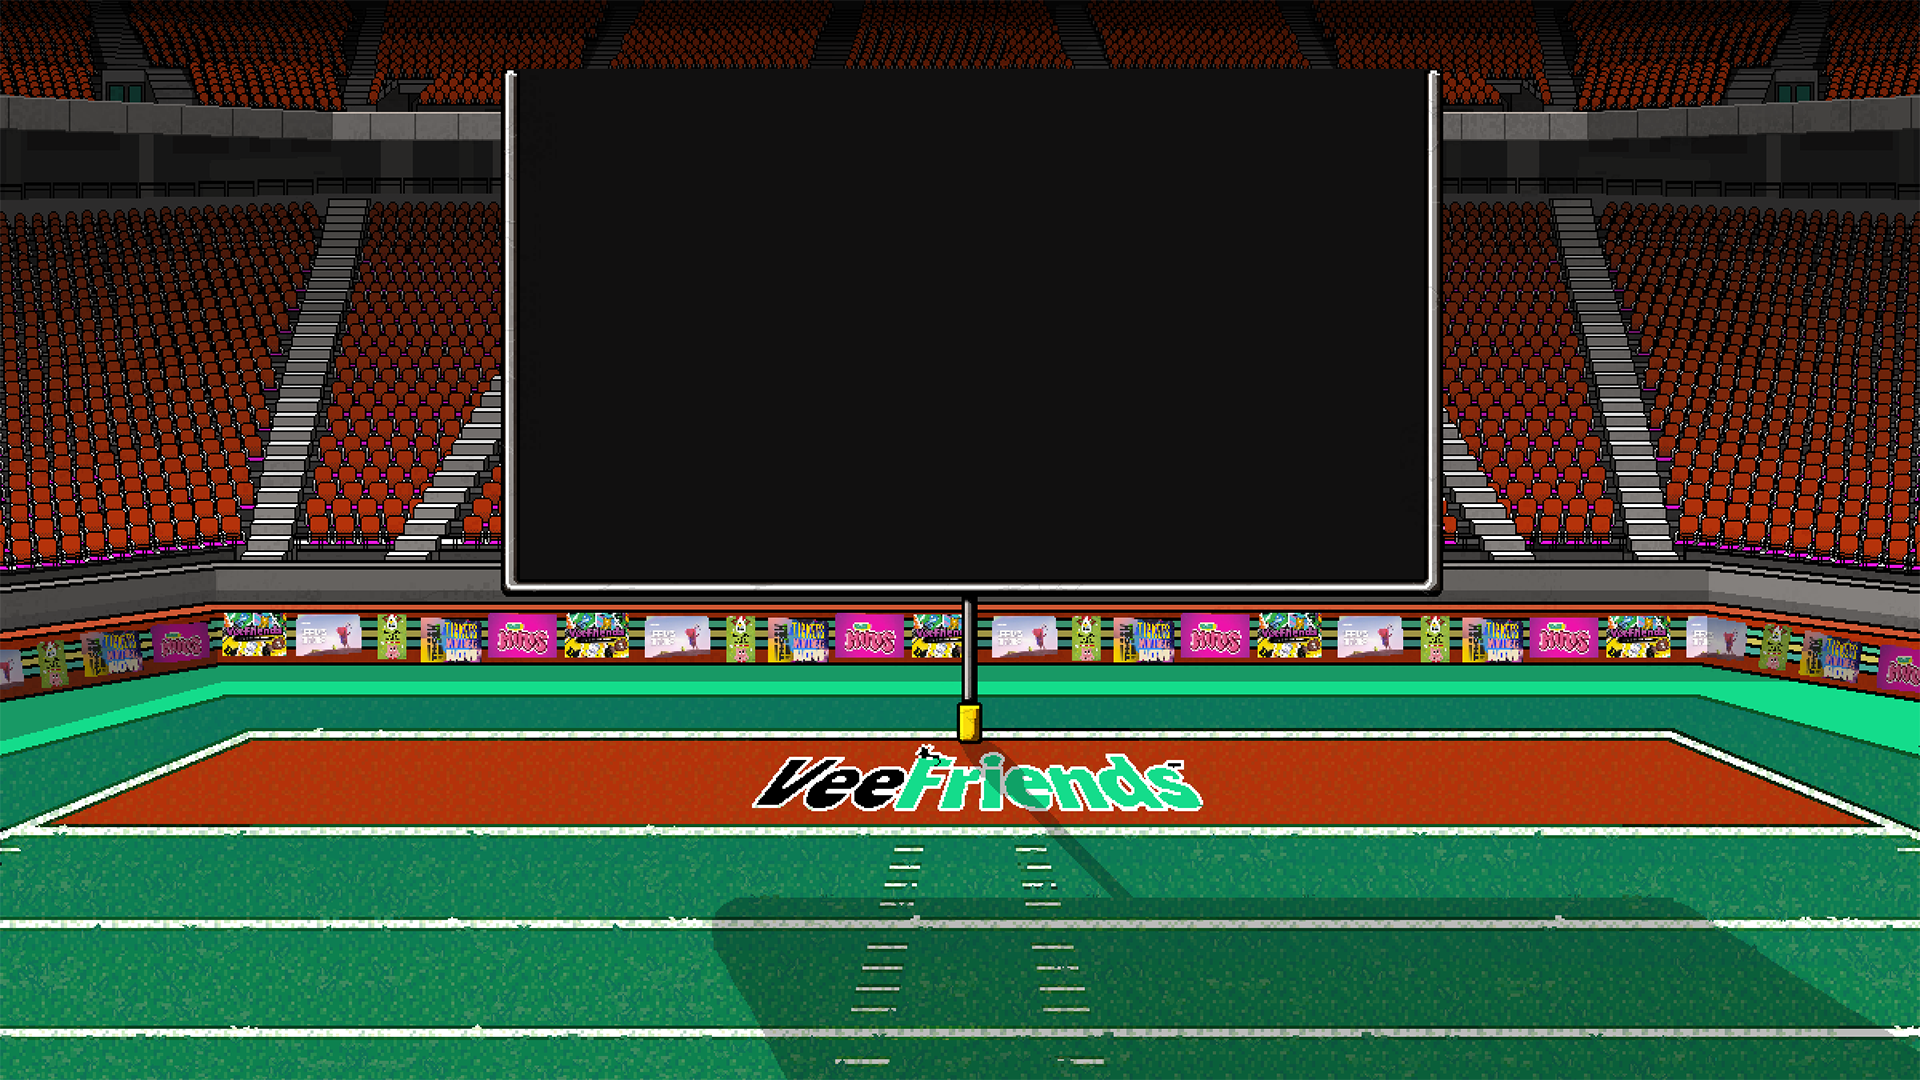
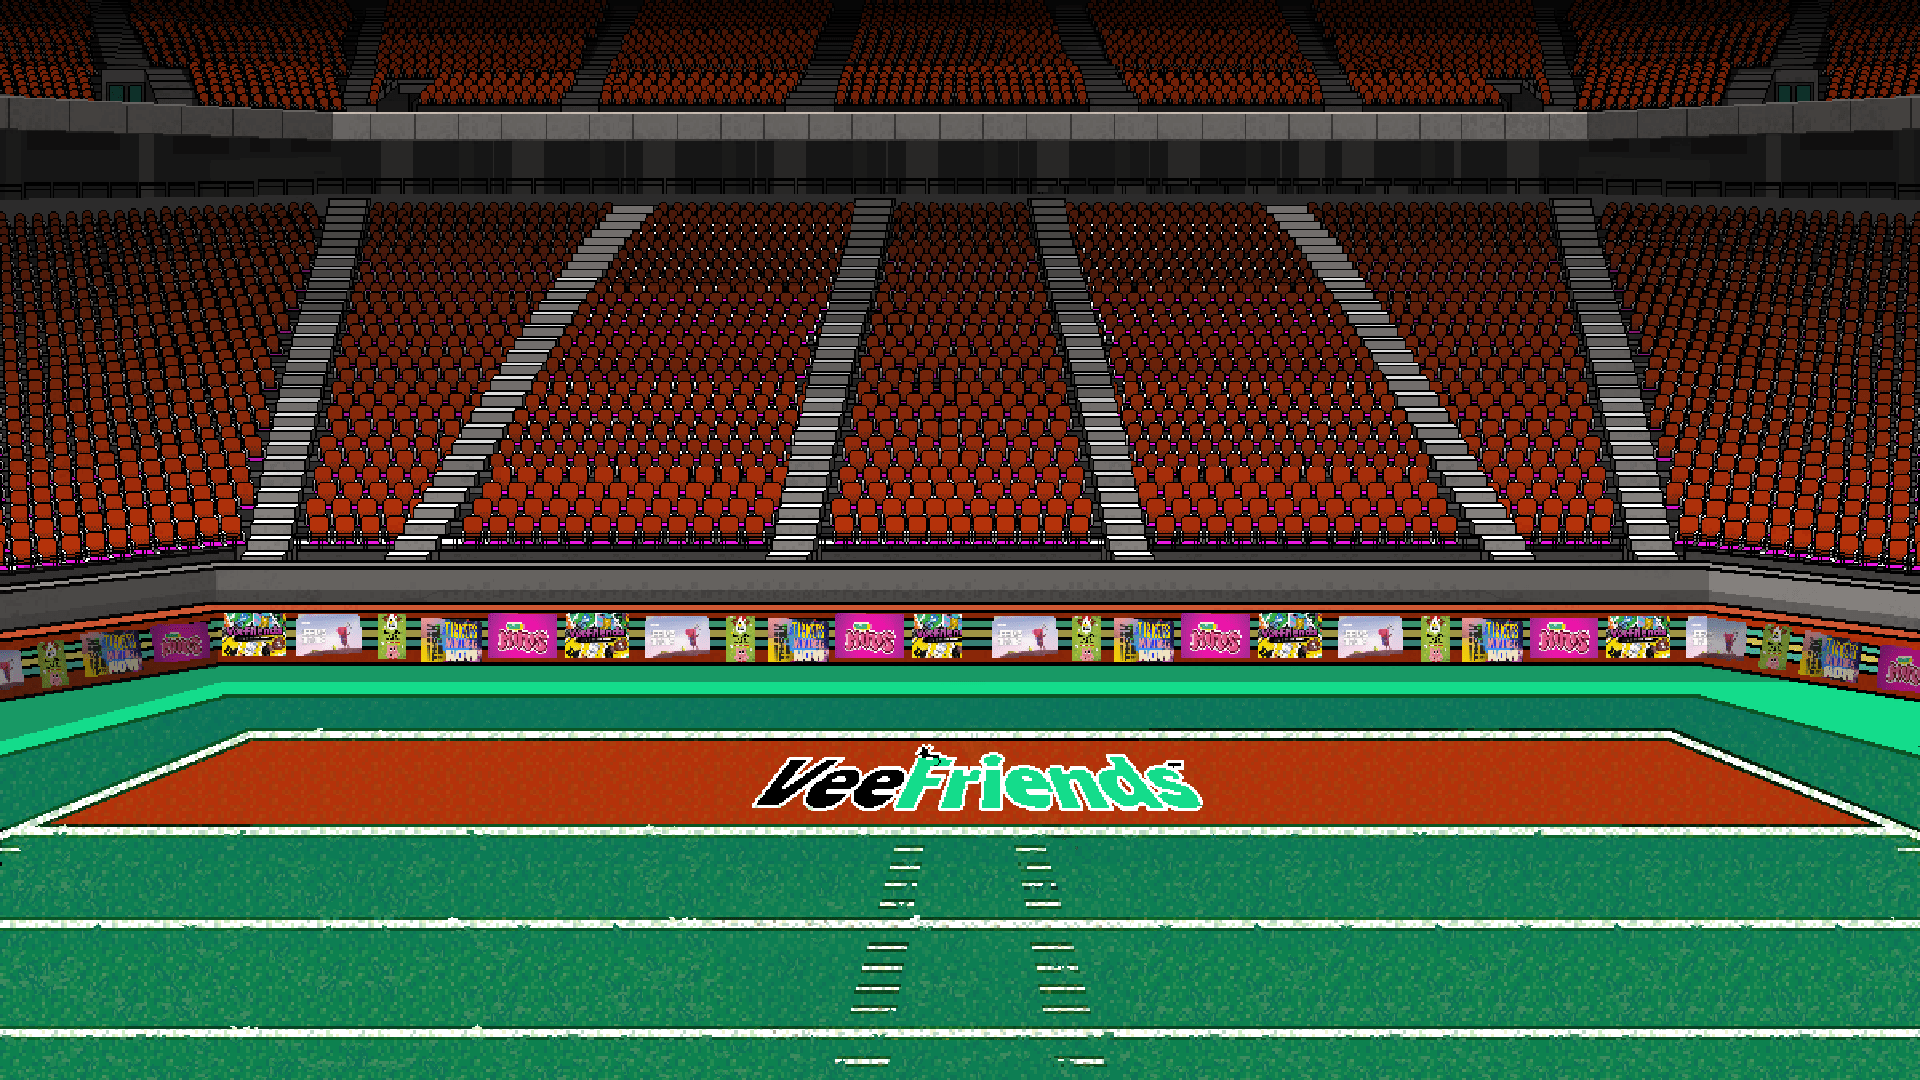
finalizes UI for dialog

diff --git a/src/Muisc/Music.ts b/src/Muisc/Music.ts
@@ -1,7 +1,7 @@
 import WaveSurfer from 'wavesurfer.js'
 import type { Song, EventCallback } from '../Types';
-import { EventEmitter } from '../Utils';
-import { MusicPlayer } from './MusicPlayer';
+import { EventEmitter, renderFragment } from '../Utils';
+import { MusicPlayer } from '../UI/Components/MusicPlayer';
 
 /**
  * Manages music playback and playlist functionality.
@@ -10,20 +10,17 @@ export class Music {
     private readonly playlist: Song[];
     private readonly audioPlayer: WaveSurfer;
     private readonly eventEmitter: EventEmitter;
-    private readonly parentElement: HTMLElement;
+    private readonly element: HTMLElement;
     private currentSongIndex: number = 0;
     private isFirstRender: boolean;
 
     /**
      * Creates a new Music instance.
-     * @param containerSelector - The CSS selector for the audio player container.
      */
-    constructor(containerSelector: string) {
-        const el = MusicPlayer();
-        console.log(el);
-        this.parentElement = document.querySelector(containerSelector)!.parentElement as HTMLElement;
+    constructor() {
+        this.element = renderFragment(MusicPlayer());
         this.playlist = this.initializePlaylist();
-        this.audioPlayer = this.createAudioPlayer(containerSelector);
+        this.audioPlayer = this.createAudioPlayer();
         this.eventEmitter = new EventEmitter();
         this.setupEventListeners();
         this.setVolume(0.9);
@@ -52,12 +49,12 @@ export class Music {
 
     /**
      * Creates and configures the WaveSurfer audio player.
-     * @param containerSelector - The CSS selector for the audio player container.
+     * @param container - The CSS selector for the audio player container.
      * @returns A configured WaveSurfer instance.
      */
-    private createAudioPlayer(containerSelector: string): WaveSurfer {
+    private createAudioPlayer(): WaveSurfer {
         return WaveSurfer.create({
-            container: containerSelector,
+            container: this.element,
             height: 18,
             width: 160,
             normalize: false,
@@ -90,12 +87,12 @@ export class Music {
         this.audioPlayer.on('finish', () => this.next());
 
         this.audioPlayer.on('play', () => {
-            this.parentElement.classList.add('playing');
+            this.element.classList.add('playing');
             this.eventEmitter.emit('play');
         });
 
         this.audioPlayer.on('pause', () => {
-            this.parentElement.classList.remove('playing');
+            this.element.classList.remove('playing');
             this.eventEmitter.emit('pause');
         });
 

diff --git a/src/UI/Components/MusicPlayer.tsx b/src/UI/Components/MusicPlayer.tsx
@@ -1,0 +1,71 @@
+import * as stylex from '@stylexjs/stylex';
+
+const styles = stylex.create({
+    music: {
+        height: "36px",
+        width: "49px",
+        margin: "20px",
+        background: "#00c08b",
+        padding: "0 5px",
+        border: "3px solid black",
+        boxSizing: "content-box",
+        boxShadow: "-4px 4px 0 0 #007f6e",
+        display: "flex",
+        alignItems: "center",
+        justifyContent: "space-between",
+        gap: "3px",
+        transition: "width 500ms ease",
+        overflow: "hidden"
+    },
+    player: {
+        opacity: 0,
+        pointerEvents: "none",
+        transition: "opacity 500ms ease",
+        width: "1px"
+    },
+    playing: {
+        width: "220px",
+    },
+    btn: {
+        background: "#009688",
+        border: "2px solid #267f6e",
+        padding: "3px",
+        cursor: "pointer",
+        borderRadius: "2px",
+        width: "23px",
+        ":hover": {
+            opacity: ".8",
+            filter: "hue-rotate(185deg)"
+        },
+        ":active": {
+            transform: "translateY(1px)",
+            opacity: "1"
+        }
+    },
+    img: {
+        display: "block",
+        width: "100%",
+        maxWidth: "23px"
+    },
+    hide: {
+        display: "none"
+    },
+    show: {
+        display: "block"
+    }
+});
+
+export const MusicPlayer = () => {
+    return (
+        <div id="music" {...stylex.props(styles.music)}>
+            <button id="playPause" {...stylex.props(styles.btn)}>
+                <img src="/utils/play.png" alt="Play" {...stylex.props(styles.img, styles.hide)} />
+                <img src="/utils/pause.png" alt="Pause" {...stylex.props(styles.img, styles.hide)} />
+            </button>
+            <div {...stylex.props(styles.player)}></div>
+            <button id="next" {...stylex.props(styles.btn)}>
+                <img src="/utils/next.png" alt="Next" {...stylex.props(styles.img)} />
+            </button>
+        </div>
+    );
+}

diff --git a/src/UI/styles.css b/src/UI/styles.css
@@ -163,7 +163,7 @@ body {
 }
 
 #mask {
-    background-image: url(/backgrounds/stadium-mask.png);
+    background-image: none;
     z-index: 1;
     pointer-events: none;
 }
@@ -197,30 +197,6 @@ body {
     height: 50px;
 }
 
-.music {
-    height: 36px;
-    width: 49px;
-    margin: 20px;
-    background: #00c08b;
-    padding: 0 5px;
-    border: 3px solid black;
-    box-sizing: content-box;
-    box-shadow: -4px 4px 0 0 #007f6e;
-    display: flex;
-    align-items: center;    
-    justify-content: space-between;
-    gap: 3px;
-    transition: width 500ms ease;
-    overflow: hidden;
-}
-
-.music .music-player {
-    opacity: 0;
-    pointer-events: none;
-    transition: opacity 500ms ease;
-    width: 1px;
-}
-
 .music.playing {
     width: 220px;
 }
@@ -230,31 +206,6 @@ body {
     width: 160px;
     pointer-events: all;
     transition-delay: 500ms;
-}
-
-.btn {
-    background: #009688;
-    border: 2px solid #267f6e;
-    padding: 3px;
-    cursor: pointer;
-    border-radius: 2px;
-    width: 23px;
-}
-
-.btn:hover {
-    opacity: .8;
-    filter: hue-rotate(185deg);
-}
-
-.btn:active {
-    transform: translateY(1px);
-    opacity: 1;
-}
-
-.btn img {
-    display: block;
-    width: 100%;
-    max-width: 23px;
 }
 
 .music .btn img[alt="Pause"] {

diff --git a/src/main.ts b/src/main.ts
@@ -5,16 +5,22 @@ import "./UI/styles.css";
 import 'virtual:stylex.css'
 import { UserManager, UserActionHandler } from "./User";
 import type { AvatarType } from "./Types";
+import { getManifest, renderFragment } from "./Utils";
+import { GameLayout } from "./UI/Components/GameLayout";
 
 /**
  * Initializes and starts the game.
  */
 async function initializeGame(): Promise<void> {
+
+    const layout = renderFragment(GameLayout());
+    document.body.appendChild(layout);
+
     const floor = new Floor("#floor");
     const userManager = new UserManager(floor);
     const animationManager = new AnimationManager();
     const userActionHandler = new UserActionHandler(userManager);
-    const music = new Music('.music-player');
+    const music = new Music();
     const game = new Game(floor, animationManager, userManager, userActionHandler);
 
     const allAvatarTypes : AvatarType[] = ['AdaptableAlien', 'ReflectiveRhinoceros', 'GaryBee', 'AmbitiousAngel'];

diff --git a/index.html b/index.html
@@ -6,26 +6,6 @@
     <title>VeePixel</title>
 </head>
 <body>
-    <div id="game">
-      <div id="nav">
-        <a href="/" class="logo">
-          <img height="50" src="/images/logo.svg" alt="VeePixel">
-        </a>
-        <div class="music">
-          <button id="playPause" class="btn btn-play">
-            <img src="/utils/play.png" alt="Play">
-            <img src="/utils/pause.png" alt="Pause">
-          </button>
-          <div class="music-player"></div>
-          <button id="next" class="btn btn-next">
-            <img src="/utils/next.png" alt="Next">
-          </button>
-        </div>
-      </div>
-      <div id="controls"></div>
-      <div id="mask"></div>
-      <div id="floor"></div>
-    </div>
     <script src="src/main.ts" type="module"></script>
 </body>
 </html>

diff --git a/src/User/UserActionHandler.ts b/src/User/UserActionHandler.ts
@@ -59,7 +59,7 @@ export class UserActionHandler {
     public handleKeyboardAction(avatar: Avatar, key: string, isKeyDown: boolean): void {
         if (!avatar) return;
 
-        const moveDistance = 5; // pixels to move per frame
+        const moveDistance = 10; // pixels to move per frame
 
         switch (key) {
             case 'ArrowLeft':
@@ -154,7 +154,7 @@ export class UserActionHandler {
      */
     private handleKeyboardMoveAction(avatar: Avatar, key?: KeyboardMoveType): void {
         if (key) {
-            const moveDistance = 5; // pixels to move per frame
+            const moveDistance = 10; // pixels to move per frame
             switch (key) {
                 case 'ArrowLeft':
                     avatar.move(-moveDistance, 0);

diff --git a/src/Utils/DomUtils.ts b/src/Utils/DomUtils.ts
@@ -1,0 +1,11 @@
+const componentManifest: { [key: string]: HTMLElement } = {};
+
+export const renderFragment = (element: JSX.Element | string) => {
+    const wrapper = document.createElement('div');
+    wrapper.innerHTML = element.toString();
+    const result = wrapper.firstChild as HTMLElement;
+    componentManifest[result.id] = result;
+    return result;
+}
+
+export const getManifest = () => componentManifest;

diff --git a/src/UI/Components/GameLayout.tsx b/src/UI/Components/GameLayout.tsx
@@ -1,0 +1,11 @@
+import { MusicPlayer } from "./MusicPlayer";
+import { Nav } from "./Nav";
+
+export const GameLayout = () => (<div id="game">
+    <Nav>
+        <MusicPlayer />
+    </Nav>
+    <div id="controls"></div>
+    <div id="mask"></div>
+    <div id="floor"></div>
+</div>);

diff --git a/src/UI/Components/Nav.tsx b/src/UI/Components/Nav.tsx
@@ -1,0 +1,6 @@
+export const Nav = (props: Html.PropsWithChildren) => (<div id="nav">
+    <a href="/" class="logo">
+        <img height="50" src="/images/logo.svg" alt="VeePixel" />
+    </a>
+    {props.children}
+</div>);

diff --git a/src/Muisc/index.ts b/src/Muisc/index.ts
@@ -1,2 +1,2 @@
 export { Music } from "./Music";
-export { MusicPlayer } from "./MusicPlayer";
+export { MusicPlayer } from "../UI/Components/MusicPlayer";

diff --git a/src/Utils/index.ts b/src/Utils/index.ts
@@ -1,1 +1,2 @@
 export { EventEmitter } from "./EventEmitter";
+export { renderFragment, getManifest } from "./DomUtils";
